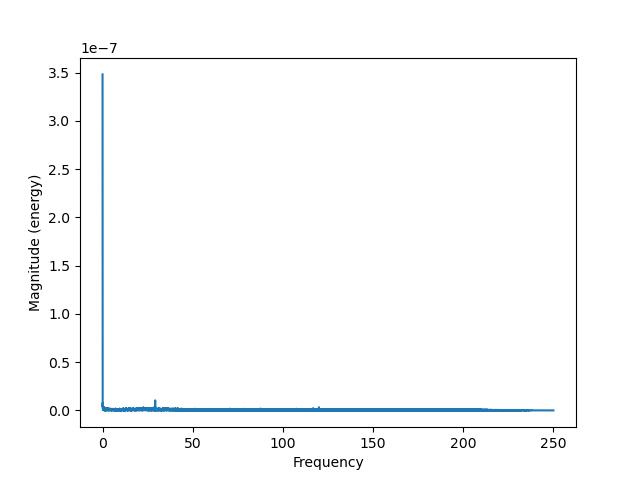
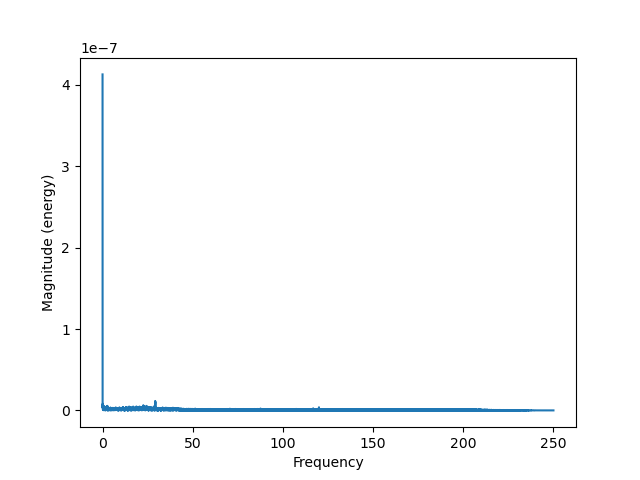
merging

diff --git a/SourceCode/lowpassDownsample.py b/SourceCode/lowpassDownsample.py
@@ -56,9 +56,9 @@ def runLowpassAndDownsample(data, sampling_duration, number_time_samples, sampli
     time = np.linspace(0, sampling_duration, number_time_samples, endpoint=False);
     data_T = np.transpose(data);
     #print(data_T.shape, file = sys.stderr);
-    n = len(data_T[0])
-    window = scipy.signal.cosine(n)
-    data_T *= window
+    #n = len(data_T[0])
+    #window = scipy.signal.cosine(n)
+    #data_T *= window
     downsampled_signal = scipy.signal.decimate(data_T,integerDownsampleFactor);
     newNumSamples = len(downsampled_signal[0]);
     downsampled_time = np.linspace(0,sampling_duration,newNumSamples, endpoint=False);
@@ -109,6 +109,9 @@ def plotLowpassDownsample(time,signal,downsampleTime,downsampledSignal,channelNu
     fig = plt.figure(figsize=(10,10));
     plt.plot(time[first:last], signal[first:last,channelNumber], 'b-', label='signal')
     plt.plot(downsampleTime[first_d:last_d], downsampledSignal[first_d:last_d, channelNumber], 'r-', label='downsampled signal')
+    
+    #plt.plot(time, signal[:,channelNumber], 'b-', label='signal')
+    #plt.plot(downsampleTime, downsampledSignal[:, channelNumber], 'r-', label='downsampled signal')
     plt.xlabel("Time (s)");
     plt.ylabel("Amplitude");
     plt.legend();

diff --git a/Examples/lowpassAndDownsampleFileEx.py b/Examples/lowpassAndDownsampleFileEx.py
@@ -12,14 +12,14 @@ plt.switch_backend('agg')
 
 def main(argv):
 	fileName = argv[0]
-	integerDownsampleFactor = 10;
+	integerDownsampleFactor = 8;
 	#Get data
 	(data, sampling_duration, number_time_samples, sampling_freq) = lowpassDownsample.getFileData(fileName);
 	#Run lowpass filter and downsample 
 	(time, signal, downsample_time, downsample_signal, sample_freq, downsampled_sample_freq) = lowpassDownsample.runLowpassAndDownsample(data, sampling_duration, number_time_samples,sampling_freq,integerDownsampleFactor);
 	channelNumber = 25;
 	startTime = 3.00;
-	endTime = 11.0;
+	endTime = 10.0;
 	#Plot lowpass filter on channelNumber
 	lowpassDownsample.plotLowpassDownsample(time,signal,downsample_time,downsample_signal,channelNumber,startTime,endTime);
 	lowpassDownsample.plotAmplitudeSpectrum(signal, downsample_signal, channelNumber, sample_freq,downsampled_sample_freq);
